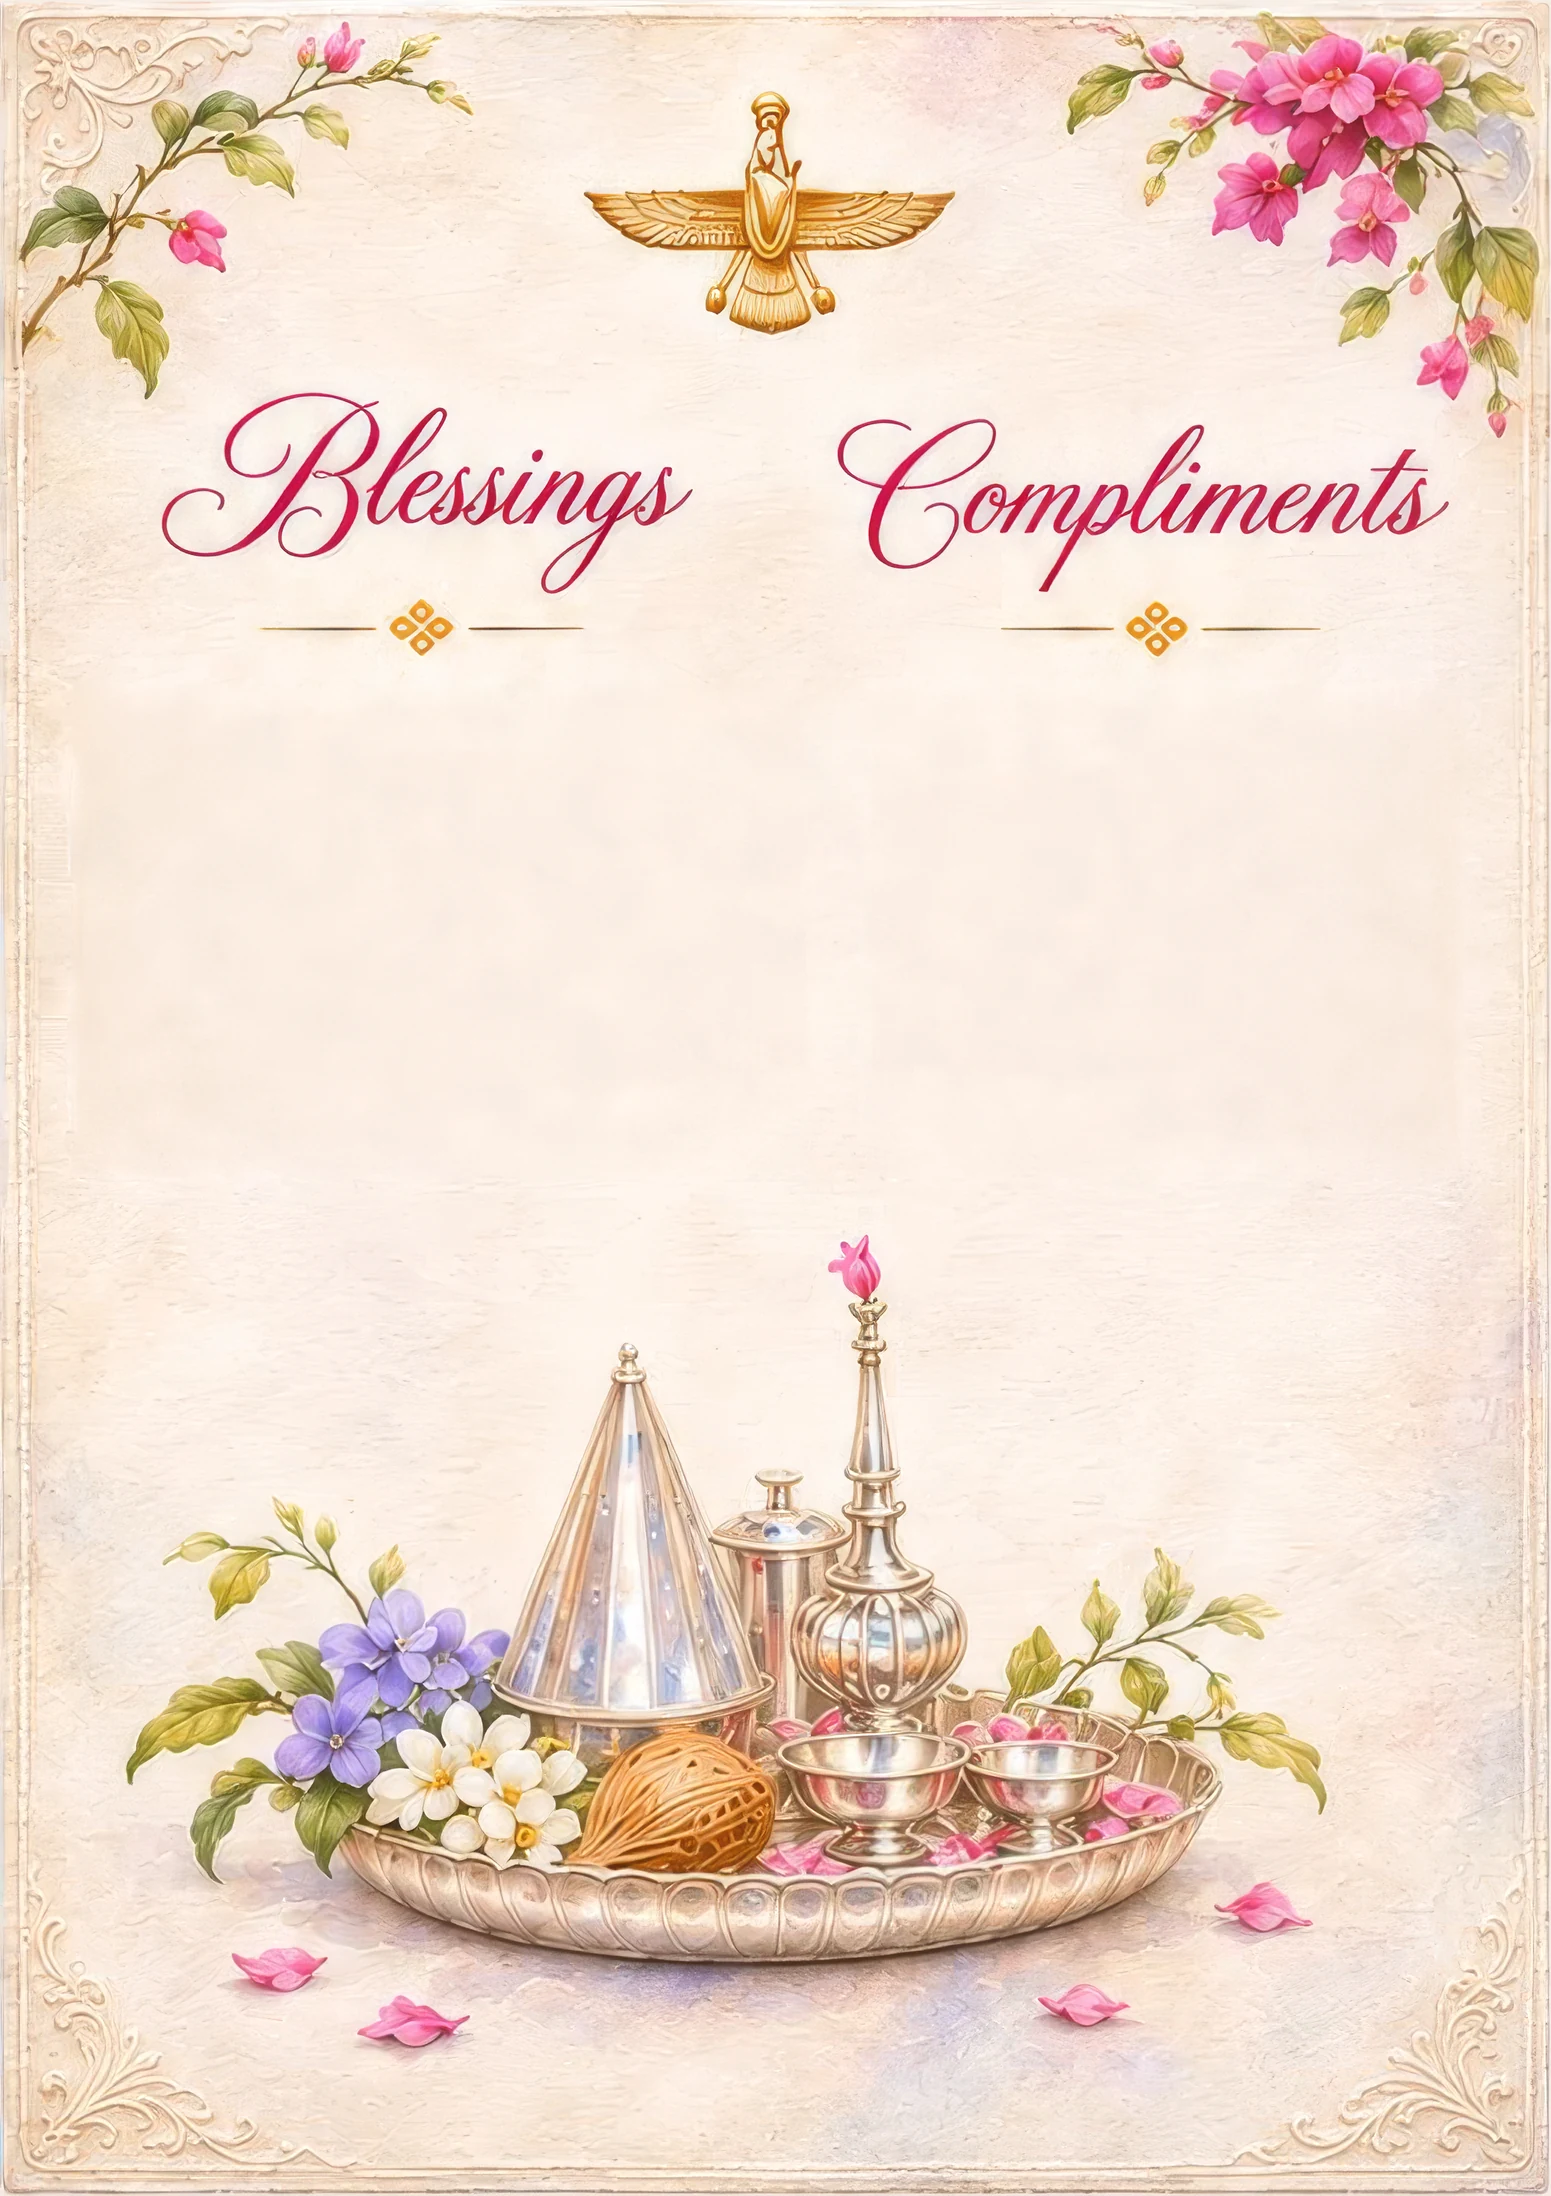
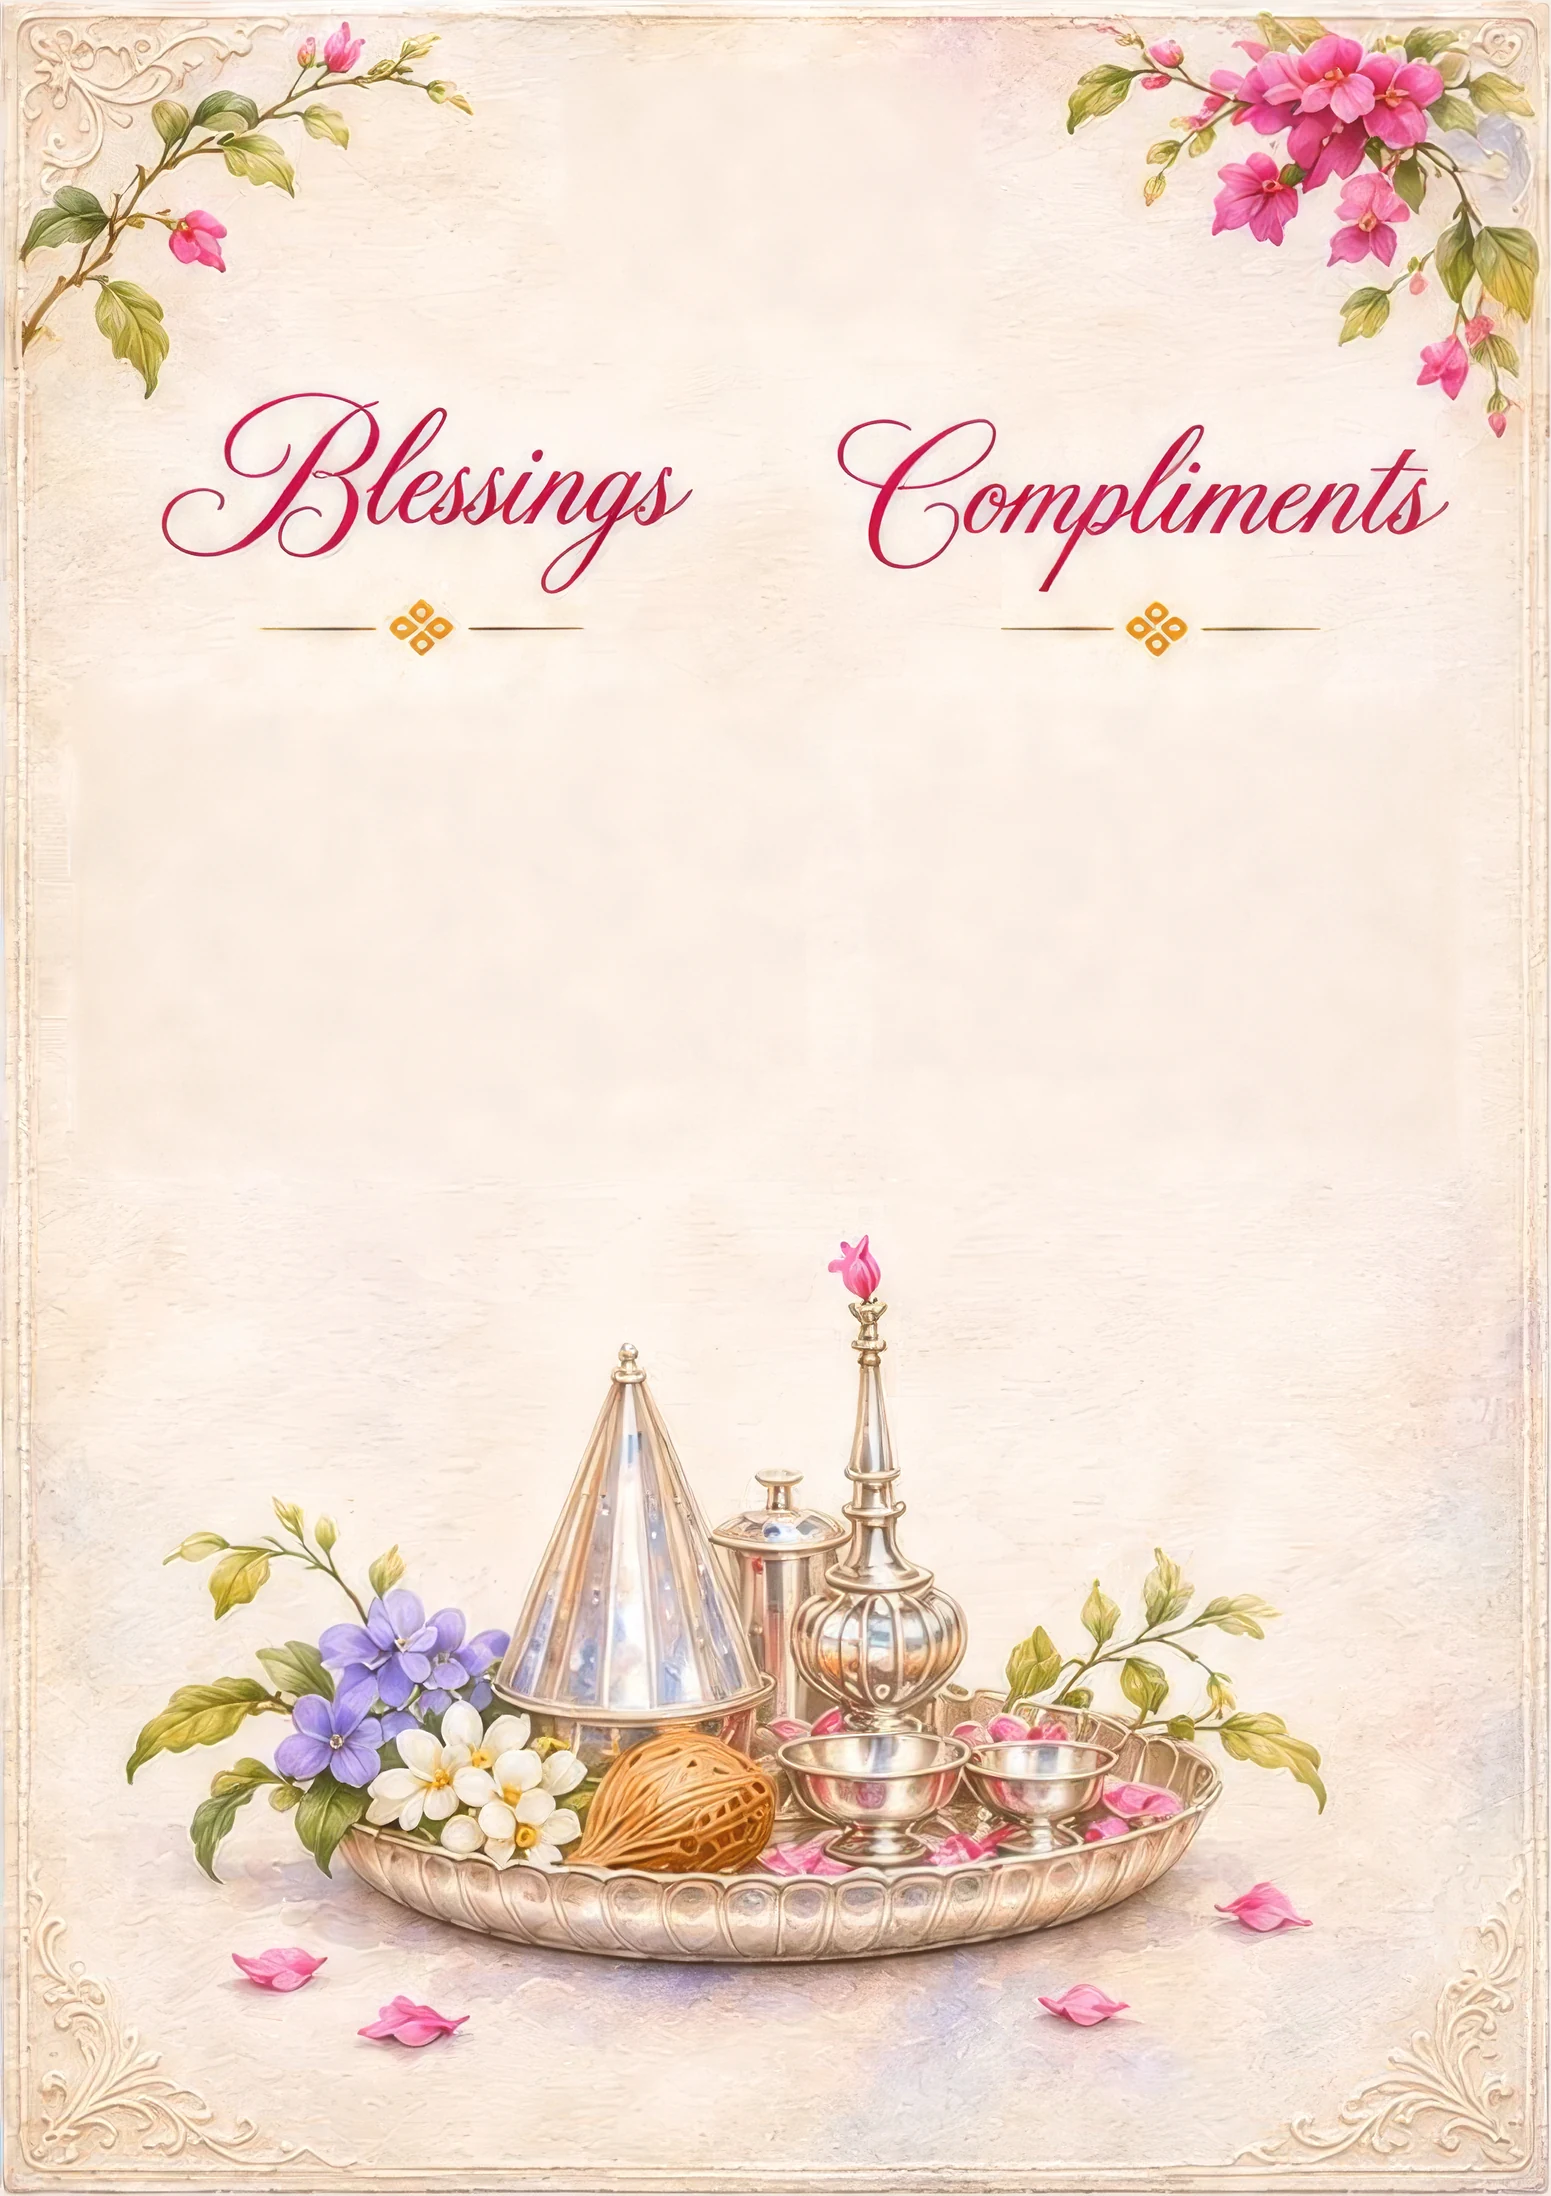
Bluebird preview: crisp Farohar
The soft Farohar lifted from the 512px design is replaced by a sharp
painted rendering of the family's own emblem (crown, ring, feathers and
spiral streamers as on the printed card) in the design's warm gold,
centred where the design places it on the cover and all three pages.

Changed region(s): [[0.3714, 0.031, 0.619, 0.1548]]

diff --git a/bluebird/index.html b/bluebird/index.html
@@ -21,7 +21,7 @@
   <link rel="stylesheet" href="parents-handover.css?v=bluebird-4">
   <link rel="stylesheet" href="real-flowers.css?v=bluebird-4">
   <link rel="stylesheet" href="bluebird.css?v=bluebird-6">
-  <link rel="stylesheet" href="bluebird-art.css?v=bluebird-6">
+  <link rel="stylesheet" href="bluebird-art.css?v=bluebird-7">
   <script src="app.js?v=bluebird-5" defer></script>
 </head>
 <body class="is-sealed theme-bluebird" data-handover="off">
@@ -35,7 +35,7 @@
       <img class="cover-art" src="../assets/art/bluebird/cover.webp?v=bluebird-6" alt="" draggable="false">
 
       <header class="sealed-head" id="sealed-head">
-        <img class="sealed-emblem" src="../assets/art/bluebird/cover-emblem.webp?v=bluebird-6" alt="" draggable="false">
+        <img class="sealed-emblem" src="../assets/art/bluebird/farohar-gold.webp?v=bluebird-7" alt="" draggable="false">
         <p class="cover-wedding"><img src="../assets/art/bluebird/word-wedding.webp?v=bluebird-6" alt="Wedding" draggable="false"></p>
         <h1 class="cover-invitation"><img src="../assets/art/bluebird/word-invitation.webp?v=bluebird-4" alt="Invitation" draggable="false"></h1>
         <img class="cover-rule" src="../assets/art/bluebird/cover-rule.webp?v=bluebird-6" alt="" draggable="false">
@@ -48,7 +48,7 @@
         <img class="presenting-parents" id="presenting-parents" alt="" hidden>
         <button class="envelope" id="envelope" type="button" aria-label="Open your invitation">
           <span class="env-back" aria-hidden="true"></span>
-          <span class="env-window" aria-hidden="true"><img class="env-letter" id="env-letter" src="../assets/art/bluebird/card-1.webp?v=bluebird-6" alt="" draggable="false"></span>
+          <span class="env-window" aria-hidden="true"><img class="env-letter" id="env-letter" src="../assets/art/bluebird/card-1.webp?v=bluebird-7" alt="" draggable="false"></span>
           <span class="env-front" aria-hidden="true"></span>
           <span class="env-glow" id="env-glow" aria-hidden="true"></span>
           <span class="env-sparkles" id="env-sparkles" aria-hidden="true"></span>
@@ -95,8 +95,8 @@
         <div class="face face--front">
           <section class="page print-page" aria-label="Page 1 of 4">
             <div class="print-canvas print-invitation">
-              <img class="print-frame" src="../assets/art/bluebird/frame-names.webp?v=bluebird-6" alt="" draggable="false">
-              <button class="print-emblem card-luck" type="button" aria-label="Gold Farohar — a little wedding surprise"><img src="../assets/art/farohar-embossed-gold.png" alt="" draggable="false"></button>
+              <img class="print-frame" src="../assets/art/bluebird/frame-names.webp?v=bluebird-7" alt="" draggable="false">
+              <button class="print-emblem card-luck" type="button" aria-label="Gold Farohar — a little wedding surprise"><img src="../assets/art/bluebird/farohar-gold.webp?v=bluebird-7" alt="" draggable="false"></button>
               <p class="print-intro"><span class="print-host-names">Naazlina and Zarir Patwa</span><span class="print-invite-line">invite <span id="p-guest">you</span> to share their joy</span><span class="print-celebrate">as they celebrate the wedding</span> <span class="print-of">of their daughter</span></p>
               <h1 class="print-name print-name--bride"><img src="../assets/art/bluebird/word-rukhshana.webp?v=bluebird-4" alt="Rukhshana" draggable="false"></h1>
               <p class="print-and"><span aria-hidden="true"></span>with<span aria-hidden="true"></span></p>
@@ -111,8 +111,8 @@
         <div class="face face--front">
           <section class="page print-page" aria-label="Page 2 of 4">
             <div class="print-canvas print-details">
-              <img class="print-frame" src="../assets/art/bluebird/frame-venue.webp?v=bluebird-6" alt="Watercolour of All Bless Baug framed by bougainvillea and hydrangeas." draggable="false">
-              <button class="print-emblem card-luck" type="button" aria-label="Gold Farohar — a little wedding surprise"><img src="../assets/art/farohar-embossed-gold.png" alt="" draggable="false"></button>
+              <img class="print-frame" src="../assets/art/bluebird/frame-venue.webp?v=bluebird-7" alt="Watercolour of All Bless Baug framed by bougainvillea and hydrangeas." draggable="false">
+              <button class="print-emblem card-luck" type="button" aria-label="Gold Farohar — a little wedding surprise"><img src="../assets/art/bluebird/farohar-gold.webp?v=bluebird-7" alt="" draggable="false"></button>
               <a class="print-when" draggable="false" href="../assets/wedding.ics" download="Rukhshana-and-Ruzbeh-wedding.ics" aria-label="Friday, 26 February 2027 at 6 PM. Add to calendar">
                 <span class="print-when-day">
                   <svg class="print-icon" viewBox="0 0 24 24" aria-hidden="true"><rect x="3.5" y="5" width="17" height="15.5" rx="1.6"/><path d="M3.5 9.6h17M8 3v4M16 3v4"/></svg>
@@ -140,8 +140,8 @@
         <div class="face face--front">
           <section class="page print-page" id="families" aria-label="Page 3 of 4">
             <div class="print-canvas print-families">
-              <img class="print-frame" src="../assets/art/bluebird/frame-families.webp?v=bluebird-6" data-groom-src="../assets/art/bluebird/frame-families-groom.webp?v=bluebird-6" alt="Watercolour of the silver ses tray with flowers." draggable="false">
-              <button class="print-emblem card-luck" type="button" aria-label="Gold Farohar — a little wedding surprise"><img src="../assets/art/farohar-embossed-gold.png" alt="" draggable="false"></button>
+              <img class="print-frame" src="../assets/art/bluebird/frame-families.webp?v=bluebird-7" data-groom-src="../assets/art/bluebird/frame-families-groom.webp?v=bluebird-7" alt="Watercolour of the silver ses tray with flowers." draggable="false">
+              <button class="print-emblem card-luck" type="button" aria-label="Gold Farohar — a little wedding surprise"><img src="../assets/art/bluebird/farohar-gold.webp?v=bluebird-7" alt="" draggable="false"></button>
               <h2 class="print-heading print-heading--blessings"><img src="../assets/art/bluebird/word-blessings.webp?v=bluebird-4" alt="Blessings" draggable="false"></h2>
               <span class="gold-rule print-flourish print-flourish--blessings" aria-hidden="true"><i></i></span>
               <ul class="print-people print-people--blessings">
@@ -169,7 +169,7 @@
         <div class="face face--front">
           <section class="page page--rsvp" id="rsvp" aria-label="Page 4 of 4">
             
-            <div class="rs-masthead"><img class="rs-card-emblem" src="../assets/art/farohar-embossed-gold.png" alt="" draggable="false"><span>Rukhshana &amp; Ruzbeh</span></div>
+            <div class="rs-masthead"><img class="rs-card-emblem" src="../assets/art/bluebird/farohar-gold.webp?v=bluebird-7" alt="" draggable="false"><span>Rukhshana &amp; Ruzbeh</span></div>
             <div class="rs-progress" aria-label="RSVP progress"><span class="is-current">Reply</span><span>Guests</span><span>Meals</span></div>
             <h2 class="p-rsvp-head" id="rs-heading" tabindex="-1">Will you join us?</h2>
             <p id="party-reaction" class="party-reaction" role="status" aria-live="polite" aria-atomic="true" hidden></p>
@@ -233,7 +233,7 @@
   </main>
 
   <div class="turn-upright" aria-hidden="true">
-    <img class="turn-upright-emblem" src="../assets/art/farohar-embossed-gold.png" alt="">
+    <img class="turn-upright-emblem" src="../assets/art/bluebird/farohar-gold.webp?v=bluebird-7" alt="">
     <p class="turn-upright-names">Rukhshana <i>with</i> Ruzbeh</p>
     <p class="caps">Please turn your phone upright</p>
   </div>

diff --git a/bluebird/bluebird-art.css b/bluebird/bluebird-art.css
@@ -8,16 +8,21 @@
 @media(prefers-reduced-motion:reduce){.is-flapping>.bird-flight{animation:none;background-position:33.333% 0}}
 
 /* Cover header: the design's own Farohar, WEDDING lettering and gold rule (cut from the owner's page). */
-.sealed-head .sealed-emblem{left:39.941%;top:14.986%;width:24.707%;filter:none}
+.sealed-head .sealed-emblem{left:39.844%;top:15.549%;width:25%;filter:drop-shadow(0 1px 1px #7a4a1238)}
 .cover-wedding{left:35.938%!important;right:auto!important;top:28.406%!important;width:33.936%;padding:0!important;transform:none!important;line-height:0!important;font-size:0!important}
 .cover-wedding img,.cover-rule{display:block;width:100%;height:auto;pointer-events:none;user-select:none;-webkit-user-select:none}
 .cover-rule{position:absolute;left:35.449%;top:41.315%;width:34.277%}
 
 /* Printed pages: the frames now carry the owner's Farohar, gold rules, icons and fixed lettering.
    The live copies stay for screen readers and as tap targets, but are not painted. */
-.print-canvas .print-emblem img{opacity:0}
 .print-details :is(.print-when,.print-where,.print-cocktails),.print-details :is(.print-when,.print-where) *{color:transparent!important}
 .print-details :is(.print-icon,.print-when-rule,.print-details-rule){visibility:hidden}
 .print-families .print-heading img,.print-families .print-flourish{opacity:0}
 .print-families:not(.print-families--groom) .print-people{color:transparent}
 .print-families:not(.print-families--groom) .print-people img{opacity:0}
+
+/* Farohar: a crisp painted rendering of the family's own emblem, centred where the design has its emblem. */
+.print-canvas .print-emblem{filter:drop-shadow(0 1px 1px #7a4a1238)}
+.print-invitation .print-emblem{left:37.331%;top:15.315%;width:24.565%}
+.print-details .print-emblem{left:39.844%;top:4.838%;width:24.805%}
+.print-families .print-emblem{left:37.137%;top:4.662%;width:24.758%}
